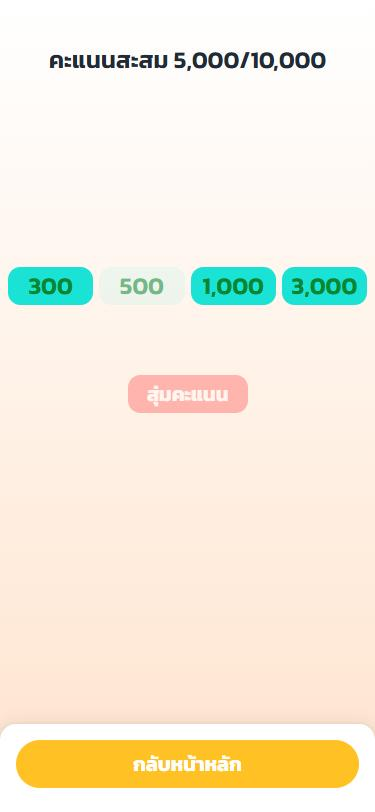
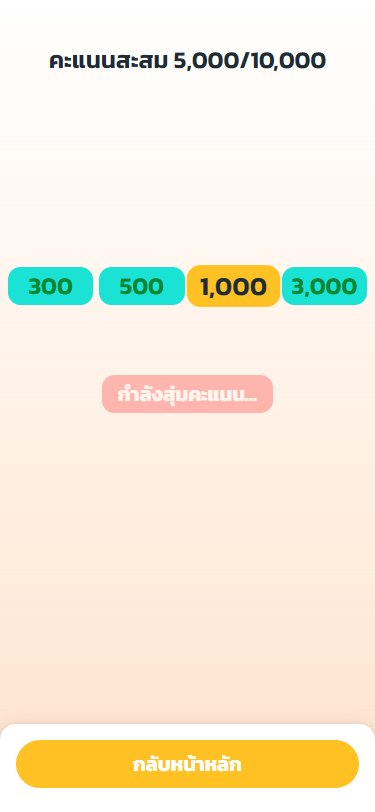
docs: show the running highlight in the game screenshot
- Replace the in-progress game screenshot with the running highlight
- Explain that the highlight runs while the API draws but stops on the
  API's result

diff --git a/README.th.md b/README.th.md
@@ -17,11 +17,11 @@
 | :------------------------------------------------------------------------------------------: | :-------------------------------------------------------------------------------------------------: | :--------------------------------------------------------------------------------------: |
 | <img src="docs/screenshots/home.jpg" width="250" alt="หน้าแรก 5,000 คะแนน พร้อมรับรางวัล A"> | <img src="docs/screenshots/home-claim-modal.jpg" width="250" alt="หน้าต่างยืนยันว่าได้รับรางวัล A"> | <img src="docs/screenshots/home-reward-history.jpg" width="250" alt="แท็บประวัติรางวัล"> |
 
-|                                     หน้าเกม                                     |                                        กำลังสุ่ม                                         |                                            ผลลัพธ์                                            |
-| :-----------------------------------------------------------------------------: | :--------------------------------------------------------------------------------------: | :-------------------------------------------------------------------------------------------: |
-| <img src="docs/screenshots/game-start.jpg" width="250" alt="หน้าเกมก่อนกดสุ่ม"> | <img src="docs/screenshots/game-playing.jpg" width="250" alt="ตัวเลือกถูกคัดออกทีละตัว"> | <img src="docs/screenshots/game-result.jpg" width="250" alt="หน้าต่างผลลัพธ์ได้ 1,000 คะแนน"> |
+|                                     หน้าเกม                                     |                                       กำลังสุ่ม                                       |                                            ผลลัพธ์                                            |
+| :-----------------------------------------------------------------------------: | :-----------------------------------------------------------------------------------: | :-------------------------------------------------------------------------------------------: |
+| <img src="docs/screenshots/game-start.jpg" width="250" alt="หน้าเกมก่อนกดสุ่ม"> | <img src="docs/screenshots/game-playing.jpg" width="250" alt="ไฟวิ่งบนตัวเลือกคะแนน"> | <img src="docs/screenshots/game-result.jpg" width="250" alt="หน้าต่างผลลัพธ์ได้ 1,000 คะแนน"> |
 
-ทุกภาพถ่ายที่ความกว้าง 375px จากเว็บที่ deploy จริง
+ทุกภาพถ่ายที่ความกว้าง 375px
 
 ## ความสามารถ
 
@@ -50,7 +50,7 @@ Browser ──► Next.js บน Vercel ──rewrite /api/*──► NestJS บ
 ```
 
 - เบราว์เซอร์คุยกับแอป Next.js เท่านั้น Next.js ส่งต่อ `/api/*` ไปที่ API (`API_ORIGIN`) cookie ของ session จึงเป็น first-party และไม่ถูกบล็อกแบบ third-party cookie
-- API เป็นผู้ตัดสินคะแนนทุกครั้ง หน้าเว็บแค่แสดง animation ตามผลที่ได้รับ จึงแก้ผลจากฝั่งเบราว์เซอร์ไม่ได้
+- API เป็นผู้ตัดสินคะแนนทุกครั้ง ระหว่างรอผลไฟจะวิ่งบนตัวเลือก แต่จุดที่ไฟหยุดมาจากผลของ API จึงแก้ผลจากฝั่งเบราว์เซอร์ไม่ได้
 
 ```text
 apps/

diff --git a/README.md b/README.md
@@ -17,11 +17,11 @@ A small points game built as a full-stack take-home assignment. Players draw a r
 | :-------------------------------------------------------------------------------------------------------------: | :--------------------------------------------------------------------------------------------------------: | :---------------------------------------------------------------------------------------: |
 | <img src="docs/screenshots/home.jpg" width="250" alt="Home page with 5,000 points and reward A ready to claim"> | <img src="docs/screenshots/home-claim-modal.jpg" width="250" alt="Dialog confirming reward A was claimed"> | <img src="docs/screenshots/home-reward-history.jpg" width="250" alt="Reward history tab"> |
 
-|                                          Game                                          |                                               Drawing                                               |                                              Result                                               |
-| :------------------------------------------------------------------------------------: | :-------------------------------------------------------------------------------------------------: | :-----------------------------------------------------------------------------------------------: |
-| <img src="docs/screenshots/game-start.jpg" width="250" alt="Game page before drawing"> | <img src="docs/screenshots/game-playing.jpg" width="250" alt="Options being eliminated one by one"> | <img src="docs/screenshots/game-result.jpg" width="250" alt="Result dialog showing 1,000 points"> |
+|                                          Game                                          |                                                Drawing                                                 |                                              Result                                               |
+| :------------------------------------------------------------------------------------: | :----------------------------------------------------------------------------------------------------: | :-----------------------------------------------------------------------------------------------: |
+| <img src="docs/screenshots/game-start.jpg" width="250" alt="Game page before drawing"> | <img src="docs/screenshots/game-playing.jpg" width="250" alt="A highlight running across the options"> | <img src="docs/screenshots/game-result.jpg" width="250" alt="Result dialog showing 1,000 points"> |
 
-All screenshots were taken at 375px on the deployed site.
+All screenshots were taken at 375px wide.
 
 ## Features
 
@@ -50,7 +50,7 @@ Browser ──► Next.js on Vercel ──/api/* rewrite──► NestJS on Rend
 ```
 
 - The browser only talks to the Next.js app. Next.js forwards `/api/*` to the API (`API_ORIGIN`), so the session cookie is first-party and is not blocked as a third-party cookie.
-- The API decides every score. The web app only animates the result it receives, so the outcome cannot be changed from the browser.
+- The API decides every score. While the request is in flight a highlight runs across the options, but where it stops comes from the API response, so the outcome cannot be changed from the browser.
 
 ```text
 apps/

diff --git a/docs/DEVELOPMENT_LOG.th.md b/docs/DEVELOPMENT_LOG.th.md
@@ -38,7 +38,7 @@
 
 ## การตัดสินใจที่ควรรู้
 
-- **เซิร์ฟเวอร์เป็นผู้ตัดสินคะแนน:** หน้าเว็บขอผลจาก API ก่อน แล้วค่อยเล่น animation ไปหาผลนั้น เบราว์เซอร์จึงเลือกผลเองไม่ได้
+- **เซิร์ฟเวอร์เป็นผู้ตัดสินคะแนน:** ระหว่างรอผลจาก API ไฟจะวิ่งบนตัวเลือก แต่จุดที่ไฟหยุดมาจากผลของ API เบราว์เซอร์จึงเลือกผลเองไม่ได้
 - **ลำดับ error ตอนรับรางวัลคงที่:** 404 ถ้าไม่มี checkpoint → ตรวจ version → `CHECKPOINT_LOCKED` → `REWARD_ALREADY_CLAIMED` สถานะเดียวกันจะได้คำตอบเดียวกันเสมอ
 - **รีเซ็ตแล้วยังใช้ session เดิม** และเพิ่ม `progressVersion` แท็บอื่นที่เปิดอยู่จะรู้และโหลดใหม่ แทนที่จะเขียนทับความคืบหน้าเก่า
 - **ตอนใกล้เต็ม หน้าต่างผลลัพธ์แสดงทั้งสองตัวเลข** คือคะแนนที่สุ่มได้และคะแนนที่ได้จริง ผู้เล่นจะไม่งงว่าทำไมสุ่มได้ 3,000 แต่คะแนนขึ้นแค่ 200

diff --git a/docs/DEVELOPMENT_LOG.md b/docs/DEVELOPMENT_LOG.md
@@ -38,7 +38,7 @@ The main problems I ran into while building this project, what caused them, and 
 
 ## Decisions worth noting
 
-- **The server decides the score.** The web app requests a round first and then animates towards the result, so the browser cannot choose the outcome.
+- **The server decides the score.** A highlight runs across the options while the round is requested, but it stops where the API response says, so the browser cannot choose the outcome.
 - **The order of claim errors is fixed:** 404 for an unknown checkpoint, then the version check, then `CHECKPOINT_LOCKED`, then `REWARD_ALREADY_CLAIMED`. Clients get the same answer for the same state.
 - **Reset keeps the session** and increments `progressVersion`, so other open tabs notice and reload instead of writing to old progress.
 - **Near the cap the dialog shows both numbers,** the score drawn and the points credited, so 3,000 never silently becomes 200.
